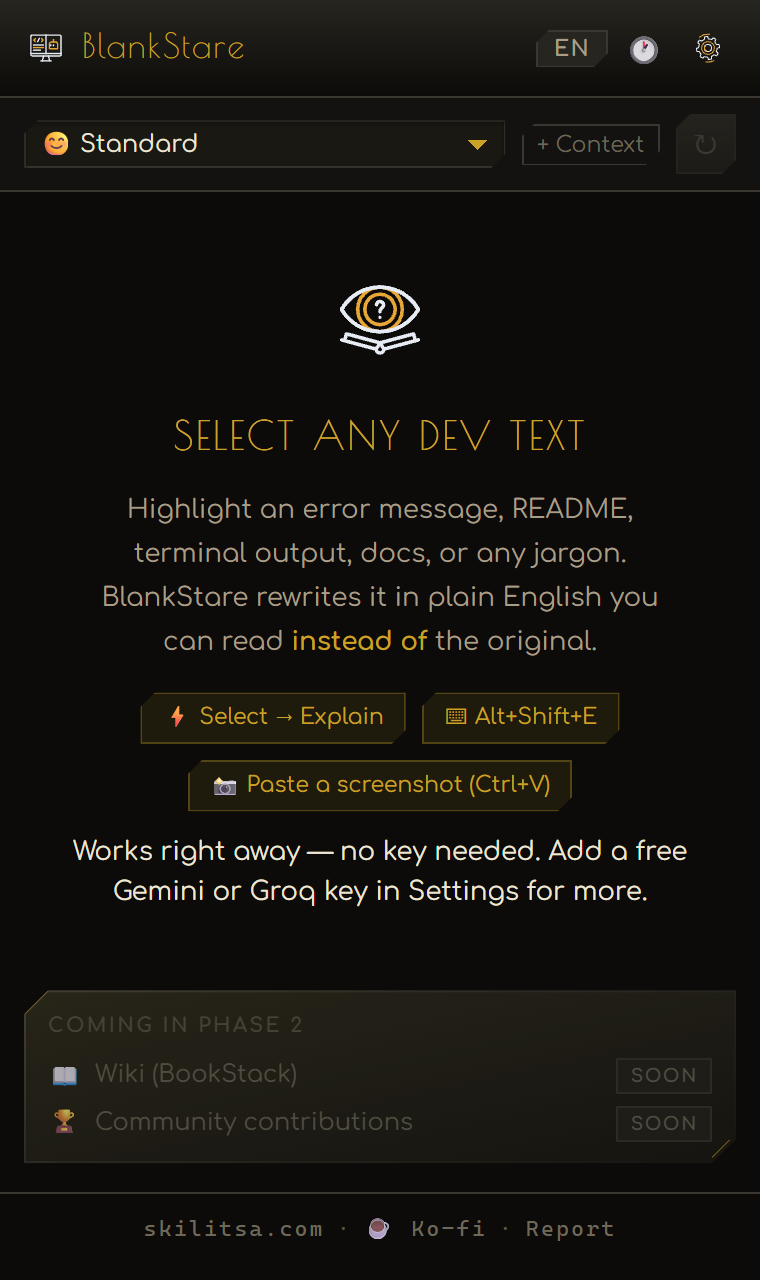
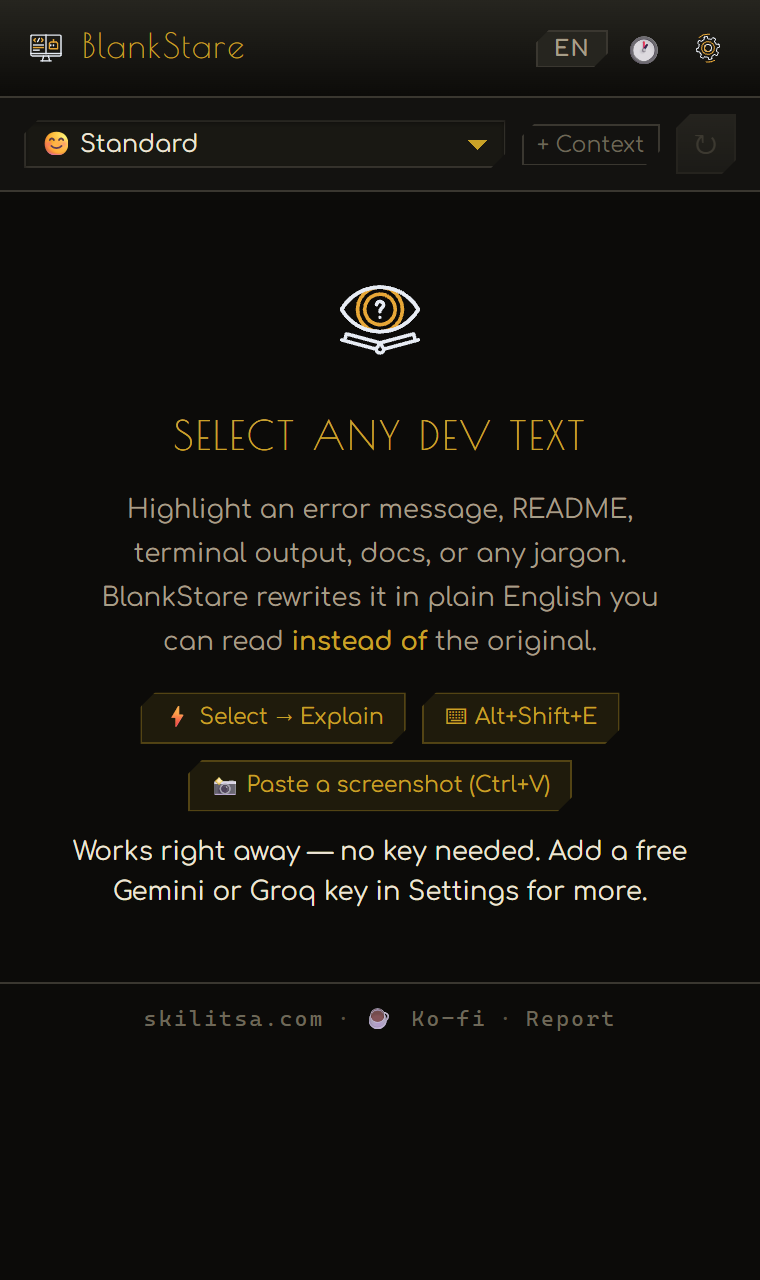
Stamp docs v0.8.0, look is brass on black, remove Phase 2 teaser, re-shoot
Ak approved the docs review, chose 'brass on black' over the retired Deco
Noir name, and asked to remove the Phase 2 teaser from the panel. All
screenshots re-shot without it.

diff --git a/sidepanel/sidepanel.css b/sidepanel/sidepanel.css
@@ -84,7 +84,7 @@ button { cursor: pointer; font-family: var(--font); border: none; background: no
    also clipping renders as a plain rectangle, which is the single most common
    way this identity gets silently dropped. */
 .selected-box, .explanation-box, .jargon-section, .resources-section,
-.collapsible-section, .phase2-tray, .history-panel, .stream-status,
+.collapsible-section, .history-panel, .stream-status,
 .lang-warning-inline, .btn, .action-pill, .hint-chip, .resource-btn,
 .level-select, .context-input, .custom-q-input, .yt-thumb, .header-pill,
 .header-icon-btn, .icon-btn-sm, .history-item, .rerun-btn, .context-toggle-btn {
@@ -94,7 +94,7 @@ button { cursor: pointer; font-family: var(--font); border: none; background: no
 
 /* Three sizes. Small parts get the small cut or the corner swallows them. */
 .selected-box, .explanation-box, .jargon-section, .resources-section,
-.collapsible-section, .phase2-tray, .history-panel, .lang-warning-inline { --c: var(--cut); }
+.collapsible-section, .history-panel, .lang-warning-inline { --c: var(--cut); }
 
 .btn, .action-pill, .hint-chip, .resource-btn, .level-select, .context-input,
 .custom-q-input, .yt-thumb, .header-pill, .header-icon-btn, .icon-btn-sm,
@@ -103,13 +103,13 @@ button { cursor: pointer; font-family: var(--font); border: none; background: no
 /* ── PANELS ──────────────────────────────────────────────────────────────────
    background = the trim hairline · ::before = the face · ::after = corner rules */
 .selected-box, .explanation-box, .jargon-section, .resources-section,
-.collapsible-section, .phase2-tray {
+.collapsible-section {
   position: relative;
   background: linear-gradient(160deg, var(--line-hot), var(--line) 40%, var(--metal-lo));
 }
 
 .selected-box::before, .explanation-box::before, .jargon-section::before,
-.resources-section::before, .collapsible-section::before, .phase2-tray::before {
+.resources-section::before, .collapsible-section::before {
   content: '';
   position: absolute;
   inset: 1px;
@@ -125,7 +125,7 @@ button { cursor: pointer; font-family: var(--font); border: none; background: no
    data-dress, so stepping down to `plain` retires the ornament without
    touching the silhouette. */
 .selected-box::after, .explanation-box::after, .jargon-section::after,
-.resources-section::after, .collapsible-section::after, .phase2-tray::after {
+.resources-section::after, .collapsible-section::after {
   content: '';
   position: absolute;
   inset: 0;
@@ -142,7 +142,7 @@ button { cursor: pointer; font-family: var(--font); border: none; background: no
 
 /* Children sit above the face. */
 .selected-box > *, .explanation-box > *, .jargon-section > *,
-.resources-section > *, .collapsible-section > *, .phase2-tray > * {
+.resources-section > *, .collapsible-section > * {
   position: relative;
   z-index: 1;
 }
@@ -166,7 +166,7 @@ button { cursor: pointer; font-family: var(--font); border: none; background: no
    They keep Comfortaa: at 11-12px the deco face's hairlines thin out, which is
    the exact case rule 6 warns against. Brass and small-caps carries the
    identity here instead. */
-.section-title, .jargon-label, .resources-label, .phase2-heading {
+.section-title, .jargon-label, .resources-label {
   color: var(--accent);
   font-weight: 700;
   letter-spacing: 0.08em;
@@ -176,7 +176,6 @@ button { cursor: pointer; font-family: var(--font); border: none; background: no
 
 /* The tray is deliberately quiet, so it dims as a whole rather than by
    greying its heading out of the palette. */
-.phase2-heading { color: var(--accent); opacity: 0.75; }
 
 /* ── HEADER ── */
 .header {
@@ -573,22 +572,6 @@ button { cursor: pointer; font-family: var(--font); border: none; background: no
 }
 .lang-warning-inline strong { color: var(--ink); font-weight: 700; }
 .lang-warning-inline em     { font-style: italic; color: var(--crit); }
-
-/* ── PHASE 2 TRAY ── */
-.phase2-tray { margin: 14px 12px 4px; padding: 10px 12px; opacity: 0.7; }
-.phase2-heading {
-  font-size: 10px; font-weight: 700; text-transform: uppercase;
-  letter-spacing: 0.12em; color: var(--ink-3); margin-bottom: 7px;
-}
-.phase2-items { display: flex; flex-direction: column; gap: 5px; }
-.phase2-item { display: flex; align-items: center; gap: 7px; font-size: 12px; color: var(--ink-3); }
-/* Semantic pill, not the accent — this is a state, not a control. */
-.phase2-badge {
-  font-size: 9px; font-weight: 700; text-transform: uppercase; letter-spacing: 0.1em;
-  color: var(--ink-3); background: var(--metal);
-  box-shadow: inset 0 0 0 1px var(--line);
-  padding: 2px 7px; margin-left: auto;
-}
 
 /* ── FOOTER ── */
 .panel-footer {

diff --git a/sidepanel/sidepanel.html b/sidepanel/sidepanel.html
@@ -189,15 +189,6 @@
     </div>
   </section>
 
-  <!-- ══ PHASE 2 ══ -->
-  <aside class="phase2-tray">
-    <div class="phase2-heading">Coming in Phase 2</div>
-    <div class="phase2-items">
-      <div class="phase2-item"><span>📖</span><span>Wiki (BookStack)</span><span class="phase2-badge">Soon</span></div>
-      <div class="phase2-item"><span>🏆</span><span>Community contributions</span><span class="phase2-badge">Soon</span></div>
-    </div>
-  </aside>
-
   <!-- ══ FOOTER ══ -->
   <footer class="panel-footer">
     <a href="https://skilitsa.com" target="_blank" rel="noopener" class="footer-brand">skilitsa.com</a>

diff --git a/docs/site.config.ts b/docs/site.config.ts
@@ -23,7 +23,7 @@ export const siteConfig = {
   // show a bare, easily-ignored link. Always set both before publishing.
   seoTitle: 'BlankStare: developer docs and error messages in plain English (free Chrome extension)',
   socialImage: 'og-image.png',
-  socialImageAlt: 'BlankStare: an art-deco side panel turning a TypeError into plain English, with the tagline "Developer docs, in plain English."',
+  socialImageAlt: 'BlankStare: a brass-on-black side panel turning a TypeError into plain English, with the tagline "Developer docs, in plain English."',
   locale: 'en_GB',
 
   // Sidebar menu. Each id must match an element id on the page.

diff --git a/STANDARDS.md b/STANDARDS.md
@@ -17,10 +17,12 @@ BlankStare does differently, and why.
 - **The docs site lives in `docs/`**, with its deploy workflow at the repo root
   (`.github/workflows/deploy-docs.yml`). `docs/superpowers/` holds design
   specs and is not part of the site.
-- **Look: Deco Noir inside the extension, the docs theme outside it.** The
-  extension wears the Deco Noir identity (vendored in `vendor/`). The docs site
-  uses the shared docs theme unchanged, as the standards require. Share images
-  and carousel slides carry the Deco Noir look, since they show the product.
+- **Look: brass on black inside the extension, the docs theme outside it.**
+  The extension's chamfered brass cards come from the stylesheet vendored in
+  `vendor/` (file names keep its original name). The docs site uses the shared
+  docs theme, as the standards require. Share images and carousel slides carry
+  the brass look, since they show the product. (Ak, 20 Nov 2026: the old
+  "Deco Noir" name is retired.)
 - **Nothing in `utils/pure.js` may touch `chrome`, `document`, `window` or
   `fetch`.** That is what lets it run under the test suite and in the docs
   playground unchanged.

diff --git a/docs/src/docs/dev.md b/docs/src/docs/dev.md
@@ -1,3 +1,8 @@
+---
+checkedAgainst: v0.8.0
+checkedOn: 2026-11-20
+---
+
 ## Dev
 
 BlankStare is a Manifest V3 Chrome extension with **no build step**. Load the folder unpacked and it runs; `npm test` exists only for the Node test suite.
@@ -38,7 +43,7 @@ BlankStare is a Manifest V3 Chrome extension with **no build step**. Load the fo
 
 ### Look
 
-Brass on black. The panel still uses the vendored `vendor/deco-noir.css` silhouette (chamfered cards) with v0.8 motion on top; Settings has its own stylesheet over the WebGL blinds. Display face per glyph via `unicode-range`: Poiret One (Latin) and GFS Didot (Greek), all self-hosted in `fonts/`.
+Brass on black. The panel's chamfered cards come from the stylesheet vendored in `vendor/`, with v0.8 motion on top; Settings has its own stylesheet over the WebGL blinds. Display face per glyph via `unicode-range`: Poiret One (Latin) and GFS Didot (Greek), all self-hosted in `fonts/`.
 
 ### Test and preview
 

diff --git a/HANDOFF.md b/HANDOFF.md
@@ -1,6 +1,6 @@
 # Handoff: BlankStare
 
-_Last updated: 2026-11-19 · by: Claude Code · version: v0.8.0 (in progress, branch `v0.8-providers`)_
+_Last updated: 2026-11-20 · by: Claude Code · version: v0.8.0 (release PR from branch `v0.8-providers`)_
 
 ## In one paragraph
 
@@ -43,6 +43,7 @@ Plan and sources: PLAN-v0.8.md. Not on the Chrome Web Store yet.
 ## Next steps, in order
 
 1. Ak reviews the new settings page and panel in a real Chrome (load unpacked).
+   Docs pages reviewed and stamped v0.8.0 by Ak, 20 Nov 2026.
 2. Store screenshots are done: `store/1-result.png` … `5-settings.png` (1280×800),
    from the real extension with real no-key answers (19/11).
 3. Merge `v0.8-providers`, tag v0.8.0, deploy docs (privacy page changed).

diff --git a/README.md b/README.md
@@ -66,7 +66,7 @@ Docs site: https://docs.stravelakis.com/BlankStare-Dev-English-to-English/ ·
 |---|---|---|
 | ![The panel in Greek](screenshots/sidepanel-greek.png) | ![The last 20 answers](screenshots/sidepanel-history.png) | ![Settings](screenshots/settings.png) |
 
-The look is **Deco Noir**, an art-deco identity: a chamfer on two opposing
+The look is **brass on black**: cards with a chamfer on two opposing
 corners, brass on near-black. Greek titles are set in GFS Didot and Latin ones
 in Poiret One, chosen letter by letter. All fonts ship inside the extension;
 nothing loads from Google.

diff --git a/docs/src/docs/plain.md b/docs/src/docs/plain.md
@@ -1,3 +1,8 @@
+---
+checkedAgainst: v0.8.0
+checkedOn: 2026-11-20
+---
+
 ## In plain English
 
 BlankStare is a free add-on for Google Chrome. It opens a panel at the side of your browser. When you read something written for programmers, like an error message, a setup guide or a page of documentation, you select it, and the panel rewrites it in plain English or Greek.

diff --git a/docs/src/docs/eli5.md b/docs/src/docs/eli5.md
@@ -1,3 +1,8 @@
+---
+checkedAgainst: v0.8.0
+checkedOn: 2026-11-20
+---
+
 ## Like I'm five
 
 Some grown-ups write in a secret language full of strange words. Programmers do this a lot.
